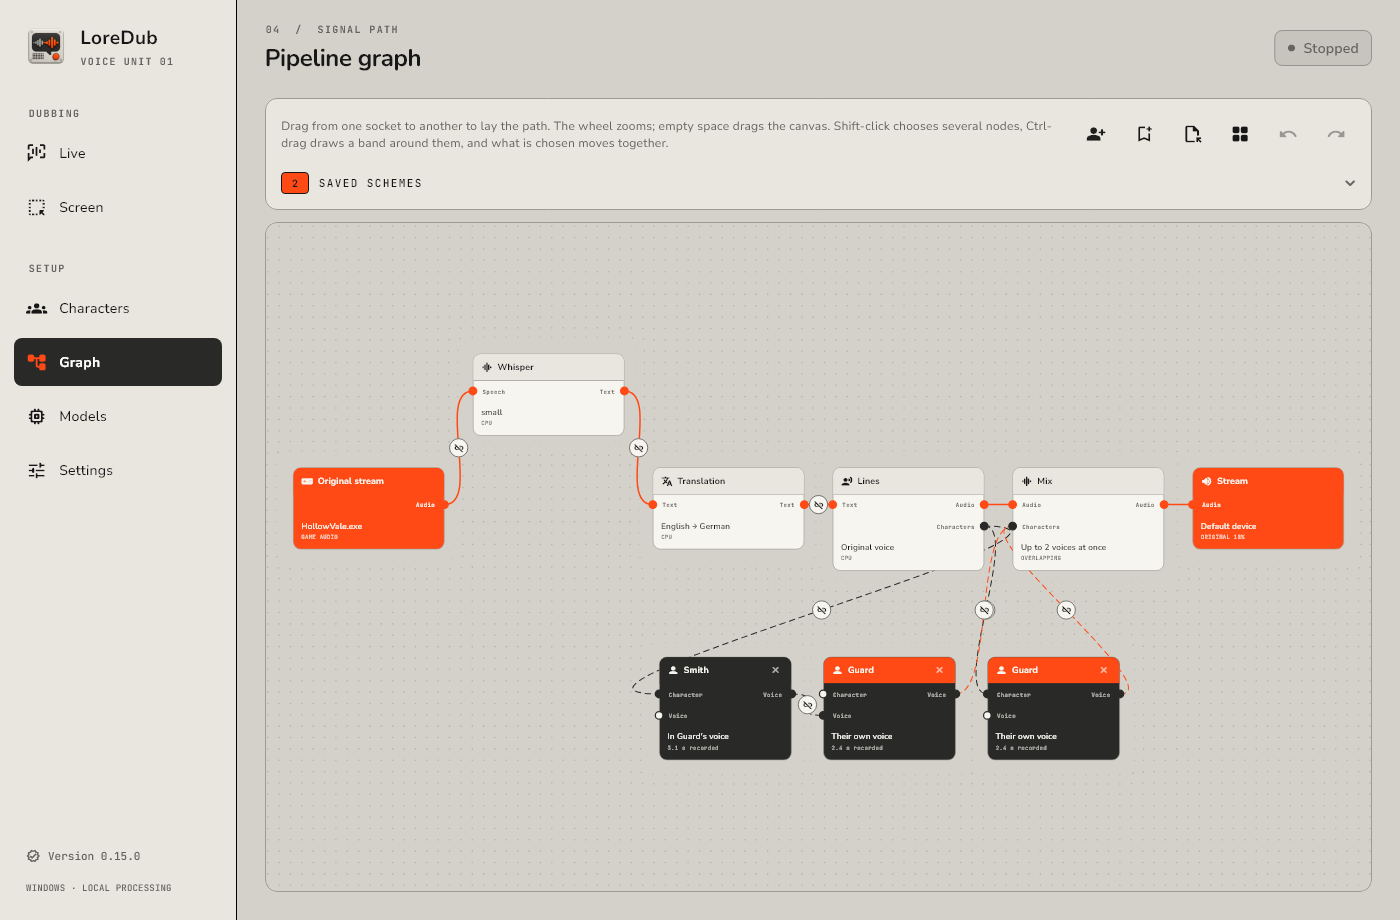
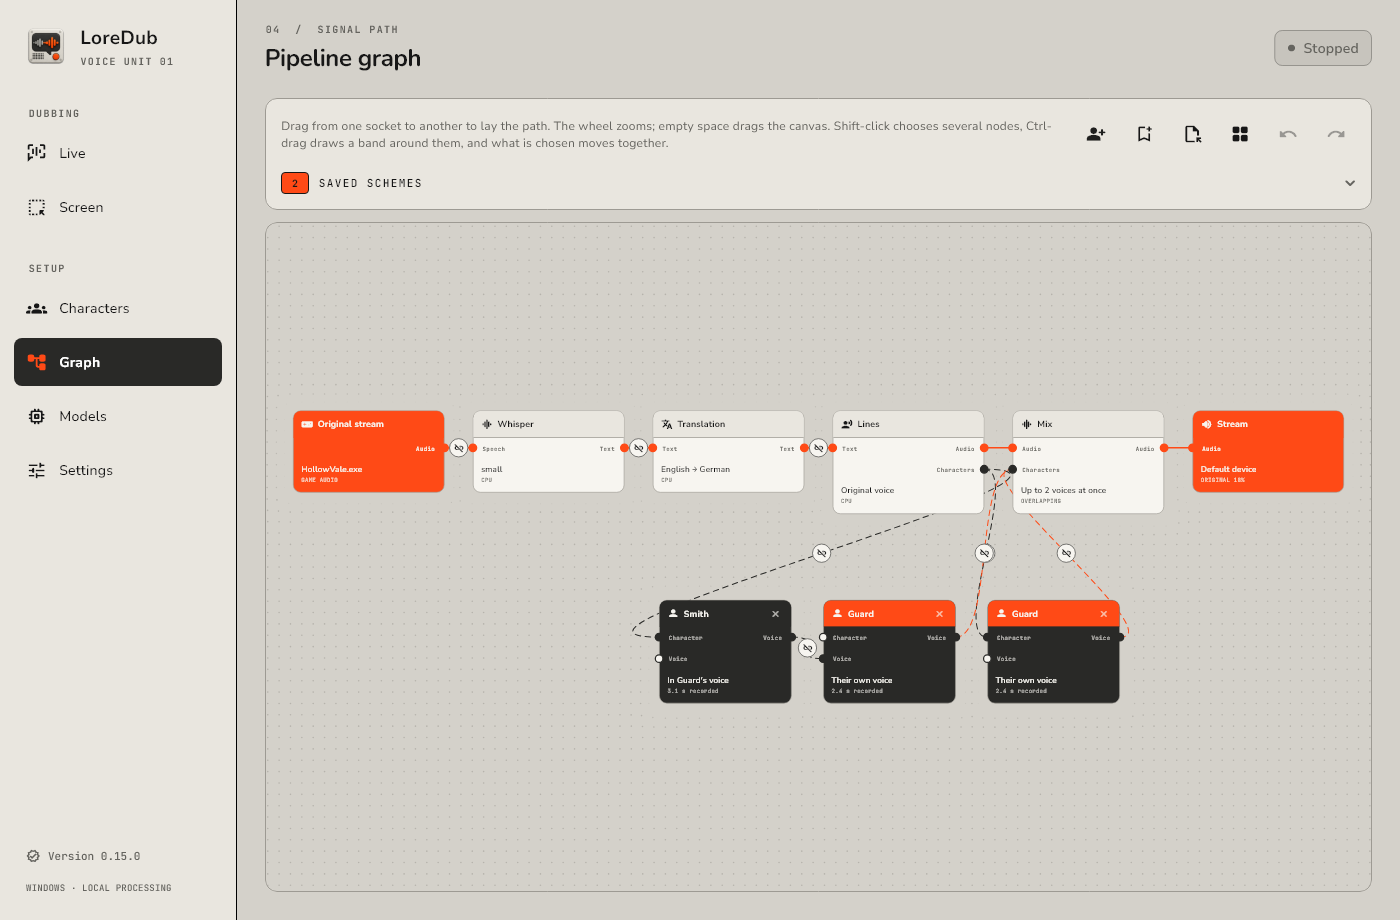
feat: lay the standard scheme out in one line
The pipeline is a line, and a canvas nobody has arranged yet should say
that before it says anything else. Whisper stood raised above the rest
from when a line ran past it straight to the voice; that line goes
through the translator now, and stepping over it is the player's to
draw.

Changed region(s): [[0.1843, 0.3957, 0.9829, 0.8522]]

diff --git a/lib/src/domain/pipeline_graph.dart b/lib/src/domain/pipeline_graph.dart
@@ -378,9 +378,14 @@ class PipelineLayout {
   /// What a canvas that was never arranged looks like.
   static const standard = PipelineLayout(positions: standardPositions);
 
+  /// The six stages in one line, in the order the work is done in: the
+  /// pipeline is a line, and a scheme nobody has arranged yet should say so
+  /// before it says anything else. Whisper stood raised above the rest while
+  /// a line ran past it to the voice; that line is drawn through the
+  /// translator now, and the step over it is the player's to make.
   static const standardPositions = {
     PipelineNodeIds.source: GraphPoint(40, 220),
-    PipelineNodeIds.recognition: GraphPoint(325, 40),
+    PipelineNodeIds.recognition: GraphPoint(325, 220),
     PipelineNodeIds.translation: GraphPoint(610, 220),
     PipelineNodeIds.voice: GraphPoint(895, 220),
     PipelineNodeIds.mix: GraphPoint(1180, 220),

diff --git a/CHANGELOG.md b/CHANGELOG.md
@@ -4,6 +4,10 @@
 
 ## [Не выпущено]
 
+- Схема по умолчанию выстроена в одну линию: Whisper больше не приподнят над
+  остальными нодами. Он стоял выше, пока мимо него шла линия прямо к озвучке;
+  теперь она идёт через «Перевод», а обойти его — дело игрока.
+
 - Сохранённую схему теперь можно обновить: в её меню, рядом с «Переименовать» и
   «Выгрузить схему в файл», появился пункт «Перезаписать» — схема заменяется тем,
   что сейчас на холсте, и остаётся под своим именем и на своём месте на полке.
